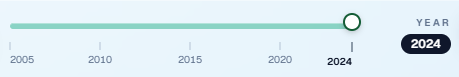
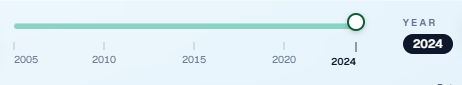
Adjusted metric/year selector format

diff --git a/components/map/MapExplorer.tsx b/components/map/MapExplorer.tsx
@@ -341,9 +341,8 @@ export function MapExplorer({ metrics, defaultMetricId, defaultYear, states, fea
                   />
                 </div>
                 <div className="min-w-0 flex-1">
-                  <div className="mt-1 flex min-w-0 items-start gap-2">
-                    <div className="min-w-0 flex-1">
-                      <div className="w-[clamp(180px,28vw,360px)] max-w-full">
+                  <div className="relative mt-1 min-w-0 pr-[3.35rem] pt-0.5">
+                    <div className="w-full">
                           <div className="relative">
                             <div className="pointer-events-none absolute inset-0 flex items-center" aria-hidden>
                               <div className="relative h-1.5" style={trackRegionStyle}>
@@ -405,8 +404,7 @@ export function MapExplorer({ metrics, defaultMetricId, defaultYear, states, fea
                             </div>
                           </div>
                         </div>
-                      </div>
-                    <div className="flex w-[3.25rem] shrink-0 flex-col items-start gap-1 pt-0.5 text-left">
+                    <div className="absolute right-0 top-0 flex w-[3.1rem] flex-col items-start gap-1 text-left">
                       <p className="text-[10px] font-semibold uppercase tracking-[0.22em] text-slate-500">Year</p>
                       <span className="flex-none rounded-full bg-slate-900 px-2.5 py-0.5 text-xs font-semibold tabular-nums text-white">
                         {selectedMetric?.years.length ? selectedYear : "—"}
@@ -452,8 +450,7 @@ export function MapExplorer({ metrics, defaultMetricId, defaultYear, states, fea
                   </div>
                   <div className="min-w-0 flex-1">
                     <div className="rounded-xl border border-white/45 bg-white/30 px-3 py-2 sm:hidden">
-                      <div className="flex items-start gap-2">
-                        <div className="min-w-0 flex-1 px-0.5">
+                      <div className="relative min-w-0 px-0.5 pr-[2.85rem]">
                           <div className="relative">
                             <div className="pointer-events-none absolute inset-0 flex items-center" aria-hidden>
                               <div className="relative h-1.5" style={trackRegionStyle}>
@@ -514,8 +511,7 @@ export function MapExplorer({ metrics, defaultMetricId, defaultYear, states, fea
                               })}
                             </div>
                           </div>
-                        </div>
-                        <div className="flex w-10 shrink-0 flex-col items-start gap-1 text-left">
+                        <div className="absolute right-0 top-0 flex w-[2.65rem] flex-col items-start gap-1 text-left">
                           <p className="text-[9px] font-semibold uppercase tracking-[0.16em] text-slate-500">Year</p>
                           <span className="flex-none rounded-full bg-slate-900 px-2.5 py-0.5 text-[11px] font-semibold tabular-nums text-white">
                             {selectedMetric?.years.length ? selectedYear : "—"}
@@ -524,10 +520,9 @@ export function MapExplorer({ metrics, defaultMetricId, defaultYear, states, fea
                       </div>
                     </div>
 
-                    <div className="hidden min-w-0 flex-1 items-start gap-3 sm:flex">
-                      <div className="min-w-0 flex-1">
-                        <div className="flex min-w-0 items-start gap-2">
-                          <div className="w-[clamp(180px,28vw,360px)] max-w-full flex-1">
+                    <div className="hidden min-w-0 flex-1 sm:block">
+                      <div className="relative min-w-0 pr-[3.35rem] pt-0.5">
+                          <div className="w-full">
                             <div className="relative">
                               <div className="pointer-events-none absolute inset-0 flex items-center" aria-hidden>
                                 <div className="relative h-1.5" style={trackRegionStyle}>
@@ -589,13 +584,12 @@ export function MapExplorer({ metrics, defaultMetricId, defaultYear, states, fea
                               </div>
                             </div>
                           </div>
-                          <div className="flex w-[3.25rem] shrink-0 flex-col items-start gap-1 pt-0.5 text-left">
+                          <div className="absolute right-0 top-0 flex w-[3.1rem] flex-col items-start gap-1 text-left">
                             <p className="text-[10px] font-semibold uppercase tracking-[0.22em] text-slate-500">Year</p>
                             <span className="flex-none rounded-full bg-slate-900 px-2.5 py-0.5 text-xs font-semibold tabular-nums text-white">
                               {selectedMetric?.years.length ? selectedYear : "—"}
                             </span>
                           </div>
-                        </div>
                       </div>
                     </div>
                   </div>